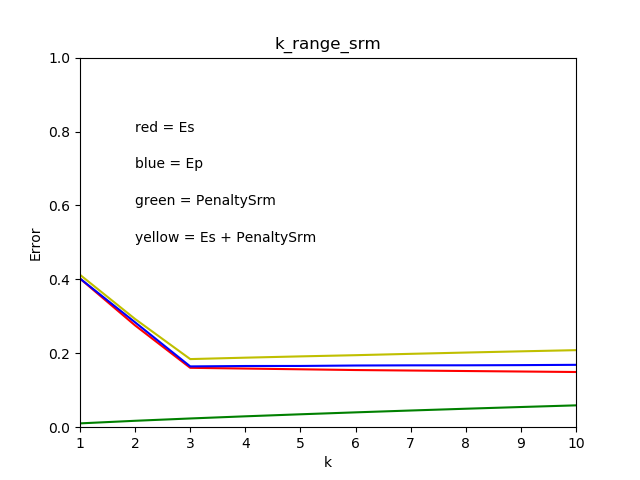
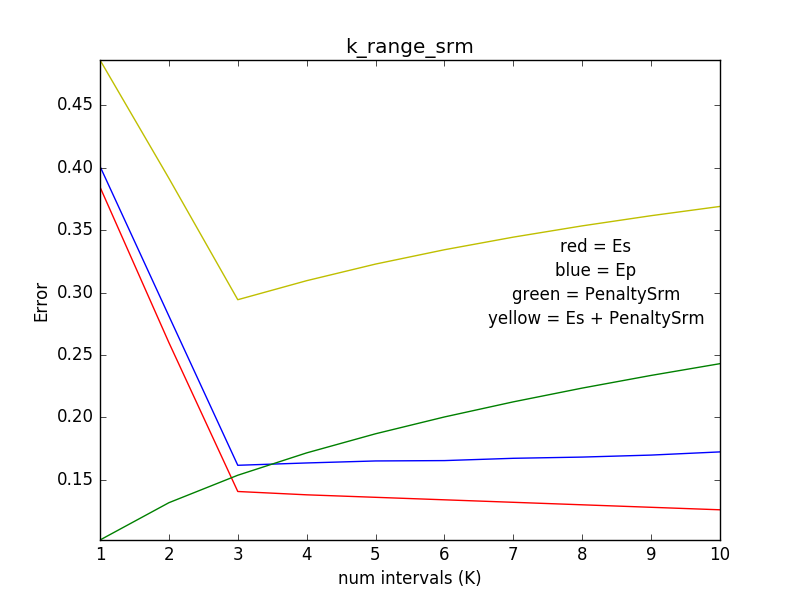
update

diff --git a/ex2/skeleton.py b/ex2/skeleton.py
@@ -9,14 +9,12 @@ from intervals import find_best_interval
 
 class Assignment2(object):
 	"""Assignment 2 skeleton.
-
 	Please use these function signatures for this assignment and submit this file, together with the intervals.py.
 	"""
 
 	def sample_from_D(self, m):
 		"""Sample m data samples from D.
 		Input: m - an integer, the size of the data sample.
-
 		Returns: np.ndarray of shape (m,2) :
 			A two dimensional array of size m that contains the pairs where drawn from the distribution P.
         """
@@ -34,17 +32,14 @@ class Assignment2(object):
 		Plots the data as asked in (a) i ii and iii.
 		Input: m - an integer, the size of the data sample.
 			k - an integer, the maximum number of intervals.
-
 		Returns: None.
 		"""
 
 		S = self.sample_from_D(m)
 
-		intervals, besterror = find_best_interval(S[0,:], S[1,:] ,k)
+		intervals, _ = find_best_interval(S[0,:], S[1,:] ,k)
 		for inter in intervals:
-			plt.hlines(0.8, inter[0], inter[1], 'b', lw=2) # print horizontal line
-        
-		print("besterror = {}".format(besterror))
+			plt.hlines(0.8, inter[0], inter[1], 'b', lw=3) # print horizontal line
 
 		plt.plot(S[0,:], S[1, :], 'ro')
 
@@ -56,8 +51,8 @@ class Assignment2(object):
 		plt.axis([0, 1, -0.1, 1.1])
 		plt.title(title)
 		plt.savefig(title + '.png')
-		plt.close()
 		# plt.show()
+		plt.close()
 		return
 
 	def experiment_m_range_erm(self, m_first, m_last, step, k, T):
@@ -69,7 +64,6 @@ class Assignment2(object):
 			   step - an integer, the difference between the size of m in each loop.
 			   k - an integer, the maximum number of intervals.
 			   T - an integer, the number of times the experiment is performed.
-
 		Returns: np.ndarray of shape (n_steps,2).
 			A two dimensional array that contains the average empirical error
 			and the average true error for each m in the range accordingly.
@@ -94,17 +88,17 @@ class Assignment2(object):
 
 		m_vals = np.arange(m_first, m_last + step, step)
     
-		plt.plot(m_vals, E[:, 0], 'r-', m_vals, E[:, 1], 'b--')
-		plt.axis([m_first, m_last, 0, 1])
-		plt.text(20, 0.8, 'red = Es')
-		plt.text(20, 0.7, 'blue = Ep')
+		plt.plot(m_vals, E[:, 0], 'r-', m_vals, E[:, 1], 'b-')
+		plt.axis([m_first, m_last, 0, E.max()])
+		plt.text(0.5, 0.9, 'red = Es', transform=plt.gca().transAxes, ha='center')
+		plt.text(0.5, 0.85, 'blue = Ep', transform=plt.gca().transAxes, ha='center')
 		title = 'm_range_erm'
-		plt.xlabel('m')
+		plt.xlabel('samples (m)')
 		plt.ylabel('Error')
 		plt.title(title)
 		plt.savefig(title + '.png')
-		plt.close()
 		# plt.show()
+		plt.close()
 
 		return E
 
@@ -115,7 +109,6 @@ class Assignment2(object):
 			   k_first - an integer, the maximum number of intervals in the first experiment.
 			   m_last - an integer, the maximum number of intervals in the last experiment.
 			   step - an integer, the difference between the size of k in each experiment.
-
 		Returns: The best k value (an integer) according to the ERM algorithm.
 		"""
 		n_steps = int((k_last - k_first) / step + 1)
@@ -133,17 +126,17 @@ class Assignment2(object):
         
 		k_vals = np.arange(k_first, k_last + step, step)
     
-		plt.plot(k_vals, E[:,0], 'r-', k_vals, E[:,1], 'b--')
-		plt.axis([k_first, k_last, 0, 1])
-		plt.text(2, 0.8, 'red = Es')
-		plt.text(2, 0.7, 'blue = Ep')
+		plt.plot(k_vals, E[:,0], 'r-', k_vals, E[:,1], 'b-')
+		plt.axis([k_first, k_last, E.min(), E.max()])
+		plt.text(0.5, 0.9, 'red = Es', transform=plt.gca().transAxes, ha='center')
+		plt.text(0.5, 0.85, 'blue = Ep', transform=plt.gca().transAxes, ha='center')
 		title = 'k_range_erm'
 		plt.xlabel('k')
 		plt.ylabel('Error')
 		plt.title(title)
 		plt.savefig(title + '.png')
-		plt.close()
 		# plt.show()
+		plt.close()
 
 		return np.argmin(E[:,0])
 
@@ -155,11 +148,10 @@ class Assignment2(object):
 			   k_first - an integer, the maximum number of intervals in the first experiment.
 			   k_last - an integer, the maximum number of intervals in the last experiment.
 			   step - an integer, the difference between the size of k in each experiment.
-
 		Returns: The best k value (an integer) according to the SRM algorithm.
 		"""
-		n_steps = int((k_last - k_first) / step + 1)
-		E = np.zeros((n_steps, 3), dtype=float)
+		num_k = int((k_last - k_first) / step + 1)
+		E = np.zeros((num_k, 4), dtype=float)
 
 		S = self.sample_from_D(m)
 		i = 0
@@ -172,24 +164,25 @@ class Assignment2(object):
 			i += 1
 		
 		k_vals = np.arange(k_first, k_last + step, step)
-		sum_error = E[:,0] + E[:,2]
+		E[:,3] = E[:,0] + E[:,2]
 
 		plt.plot(k_vals, E[:,0], 'r-', k_vals, E[:,1], 'b-', k_vals, E[:,2], 'g-', \
-			k_vals, sum_error, 'y-')
+			k_vals, E[:,3], 'y-')
 
-		plt.axis([k_first, k_last, 0, 1])
-		plt.text(2, 0.8, 'red = Es')
-		plt.text(2, 0.7, 'blue = Ep')
-		plt.text(2, 0.6, 'green = PenaltySrm')
-		plt.text(2, 0.5, 'yellow = Es + PenaltySrm')
-		plt.xlabel('k')
+		plt.axis([k_first, k_last, E.min(), E.max()])
+		plt.text(0.8, 0.6, 'red = Es', transform=plt.gca().transAxes, ha='center')
+		plt.text(0.8, 0.55, 'blue = Ep', transform=plt.gca().transAxes, ha='center')
+		plt.text(0.8, 0.5, 'green = PenaltySrm', transform=plt.gca().transAxes, ha='center')
+		plt.text(0.8, 0.45, 'yellow = Es + PenaltySrm', transform=plt.gca().transAxes, ha='center')
+		plt.xlabel('num intervals (K)')
 		plt.ylabel('Error')
 		title = 'k_range_srm'
 		plt.title(title)
 		plt.savefig(title + '.png')
 		# plt.show()
+		plt.close()
 
-		best_k = np.argmin(sum_error)
+		best_k = np.argmin(E[:,3])
 		print("best k value found by srm {}".format(best_k + 1))
 
 		return best_k
@@ -199,7 +192,6 @@ class Assignment2(object):
 		Chooses the best hypothesis based on 3 experiments.
 		Input: m - an integer, the size of the data sample.
 			   T - an integer, the number of times the experiment is performed.
-
 		Returns: The best k value (an integer) found by the cross validation algorithm.
 		"""
 		n_steps = int((k_last - k_first) / step + 1)
@@ -260,7 +252,6 @@ class Assignment2(object):
 		"""
 		Caclulate the true error (Ep(h))
 		Input: h - the hypothesis
-
 		Returns: Ep(h)
 		"""
 
@@ -316,15 +307,15 @@ class Assignment2(object):
 		"""
 
 		# vcdim(H_k) = 2k
-		return (1 / m) * (2 * k * np.log(m / (2 * k)) + np.log(1 / delta))
+		return np.sqrt((1 / m) * (2 * k * np.log(m / (2 * k)) + np.log(1 / delta)))
 
 	#################################
 
 
 if __name__ == '__main__':
 	ass = Assignment2()
-	# ass.draw_sample_intervals(100, 3) # m = 100, k = 3 
-	#ass.experiment_m_range_erm(10, 100, 5, 3, 100) 
-	# ass.experiment_k_range_erm(1500, 1, 10, 1)
-	# ass.experiment_k_range_srm(1500, 1, 10, 1)
+	ass.draw_sample_intervals(100, 3) # m = 100, k = 3 
+	ass.experiment_m_range_erm(10, 100, 5, 3, 100) 
+	ass.experiment_k_range_erm(1500, 1, 10, 1)
+	ass.experiment_k_range_srm(1500, 1, 10, 1)
 	ass.cross_validation(1500, 1, 10, 1, 3)
